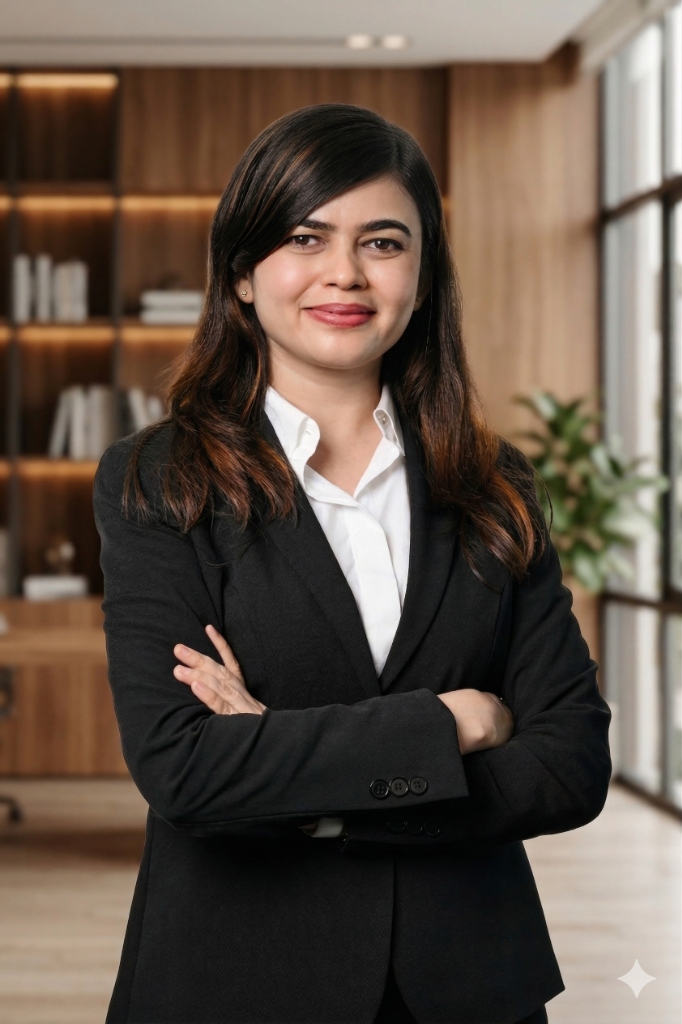
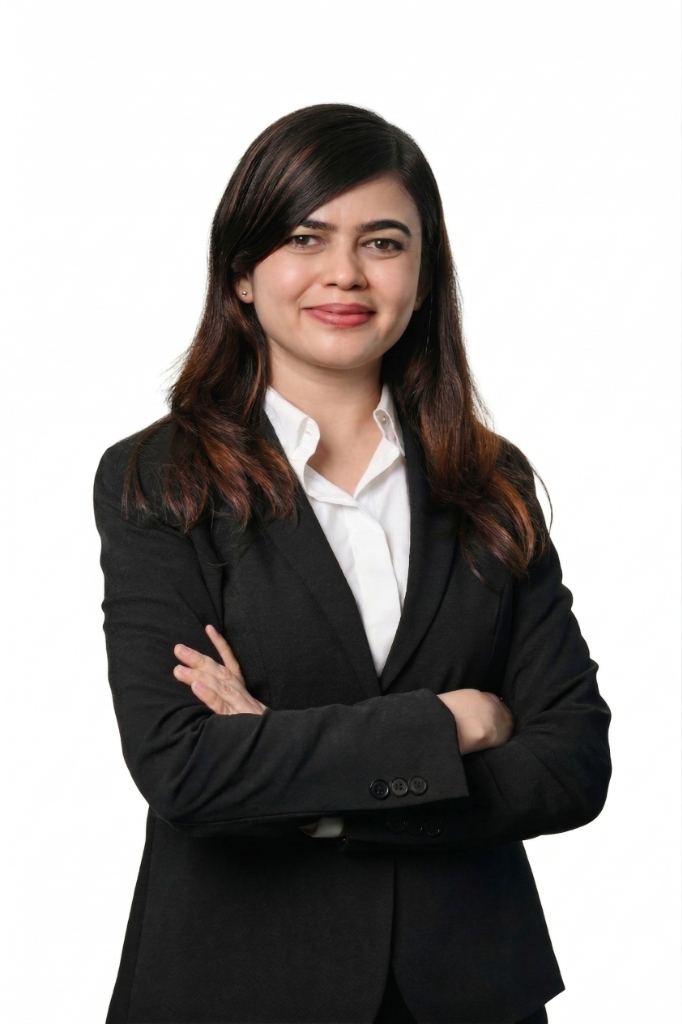
feat: swap profile photo and fix bubbles to bright white with emissive glow

diff --git a/src/FloatingGeometry.tsx b/src/FloatingGeometry.tsx
@@ -91,10 +91,14 @@ function Bubbles({ count = 120 }: { count?: number }) {
   return (
     <instancedMesh ref={ref} args={[undefined, undefined, count]}>
       <sphereGeometry args={[1, 16, 16]} />
-      <meshBasicMaterial
+      <meshStandardMaterial
         color="#ffffff"
+        emissive="#ffffff"
+        emissiveIntensity={0.6}
+        roughness={0.2}
+        metalness={0}
         transparent
-        opacity={0.55}
+        opacity={0.85}
       />
     </instancedMesh>
   );
